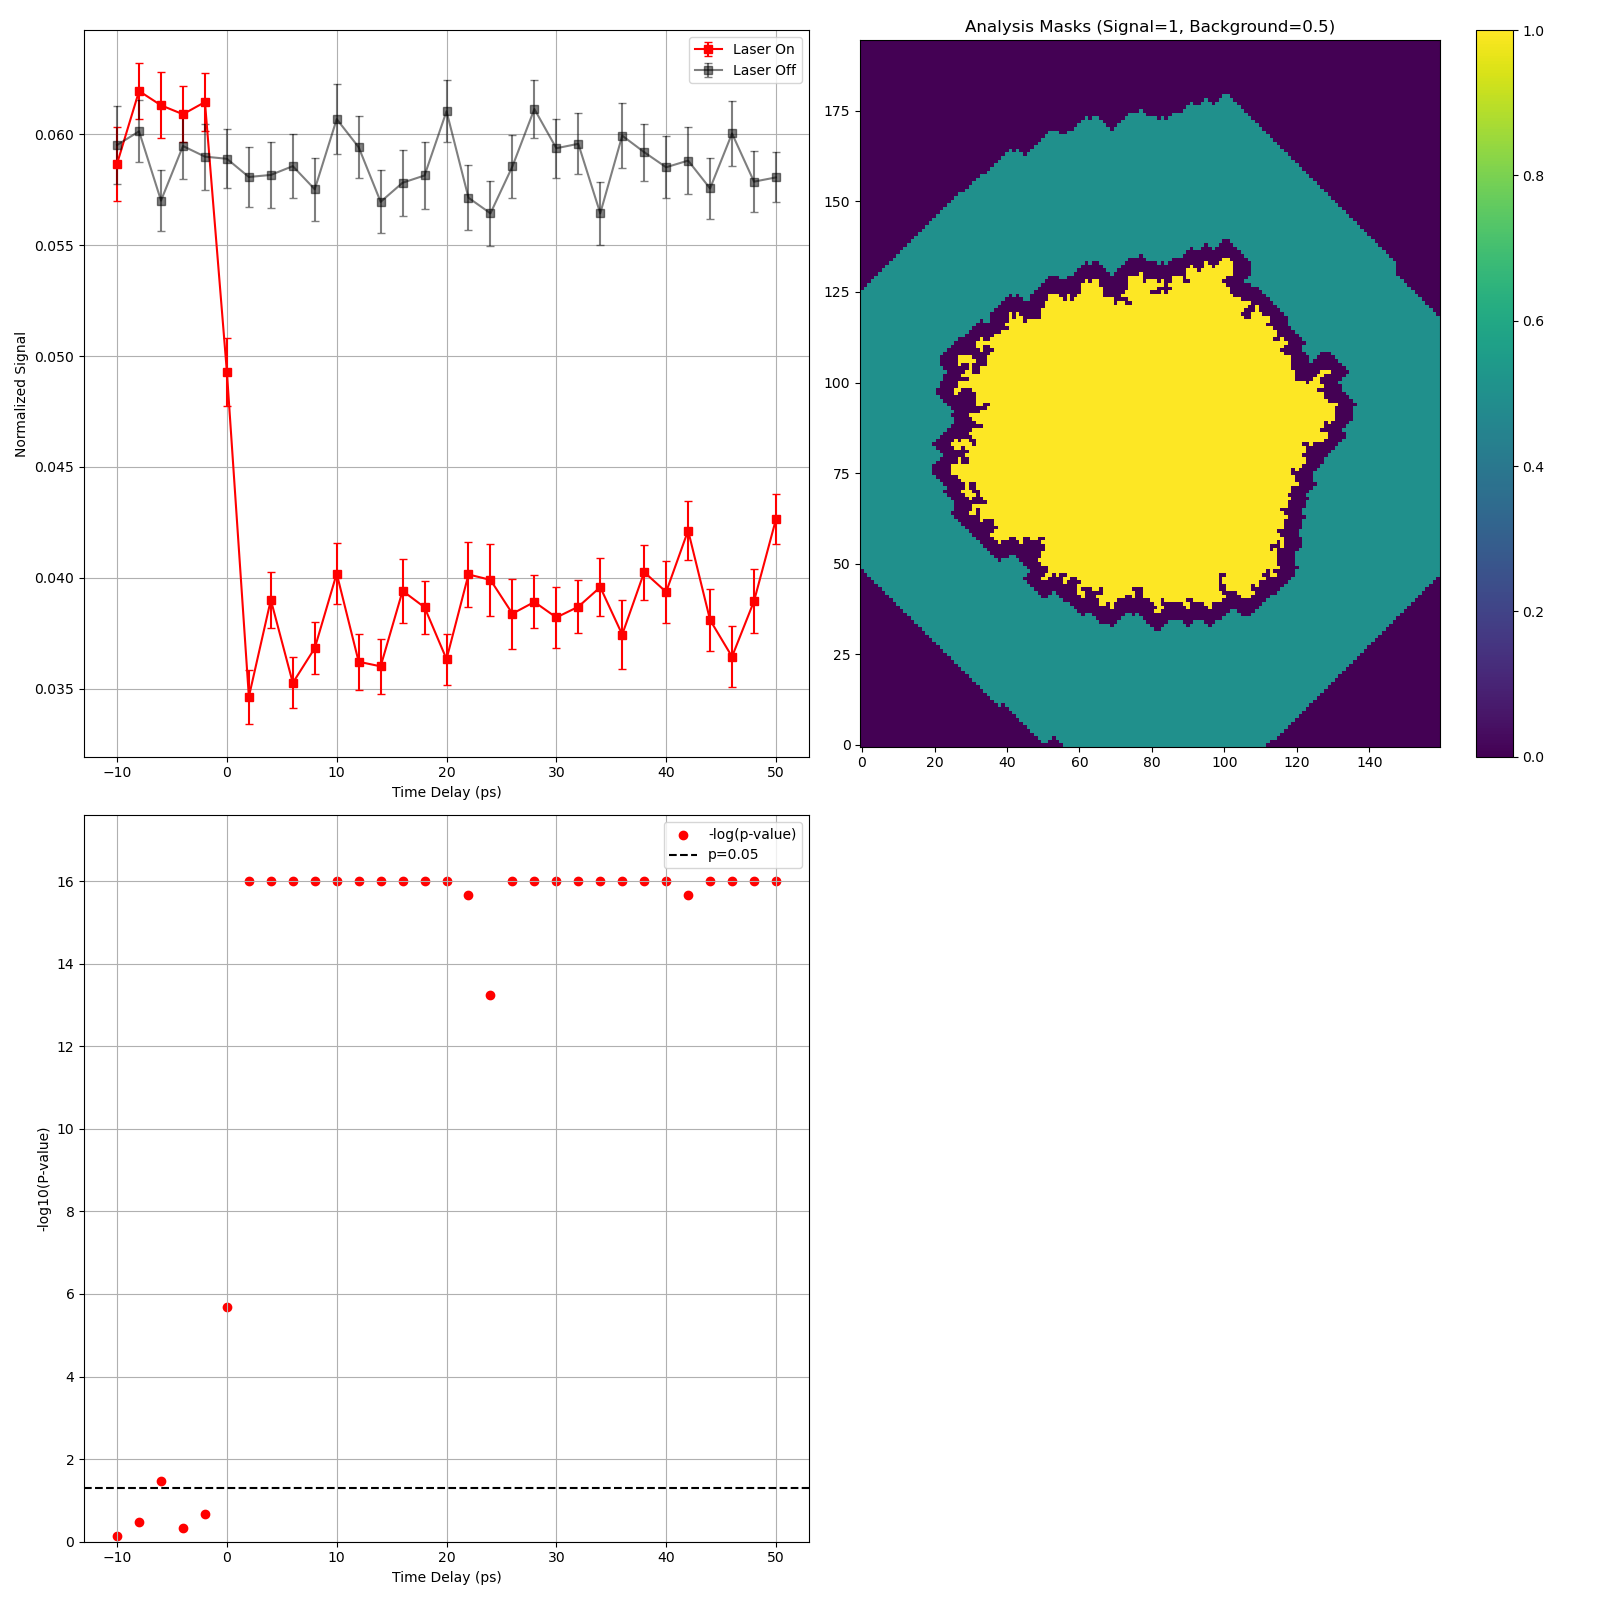
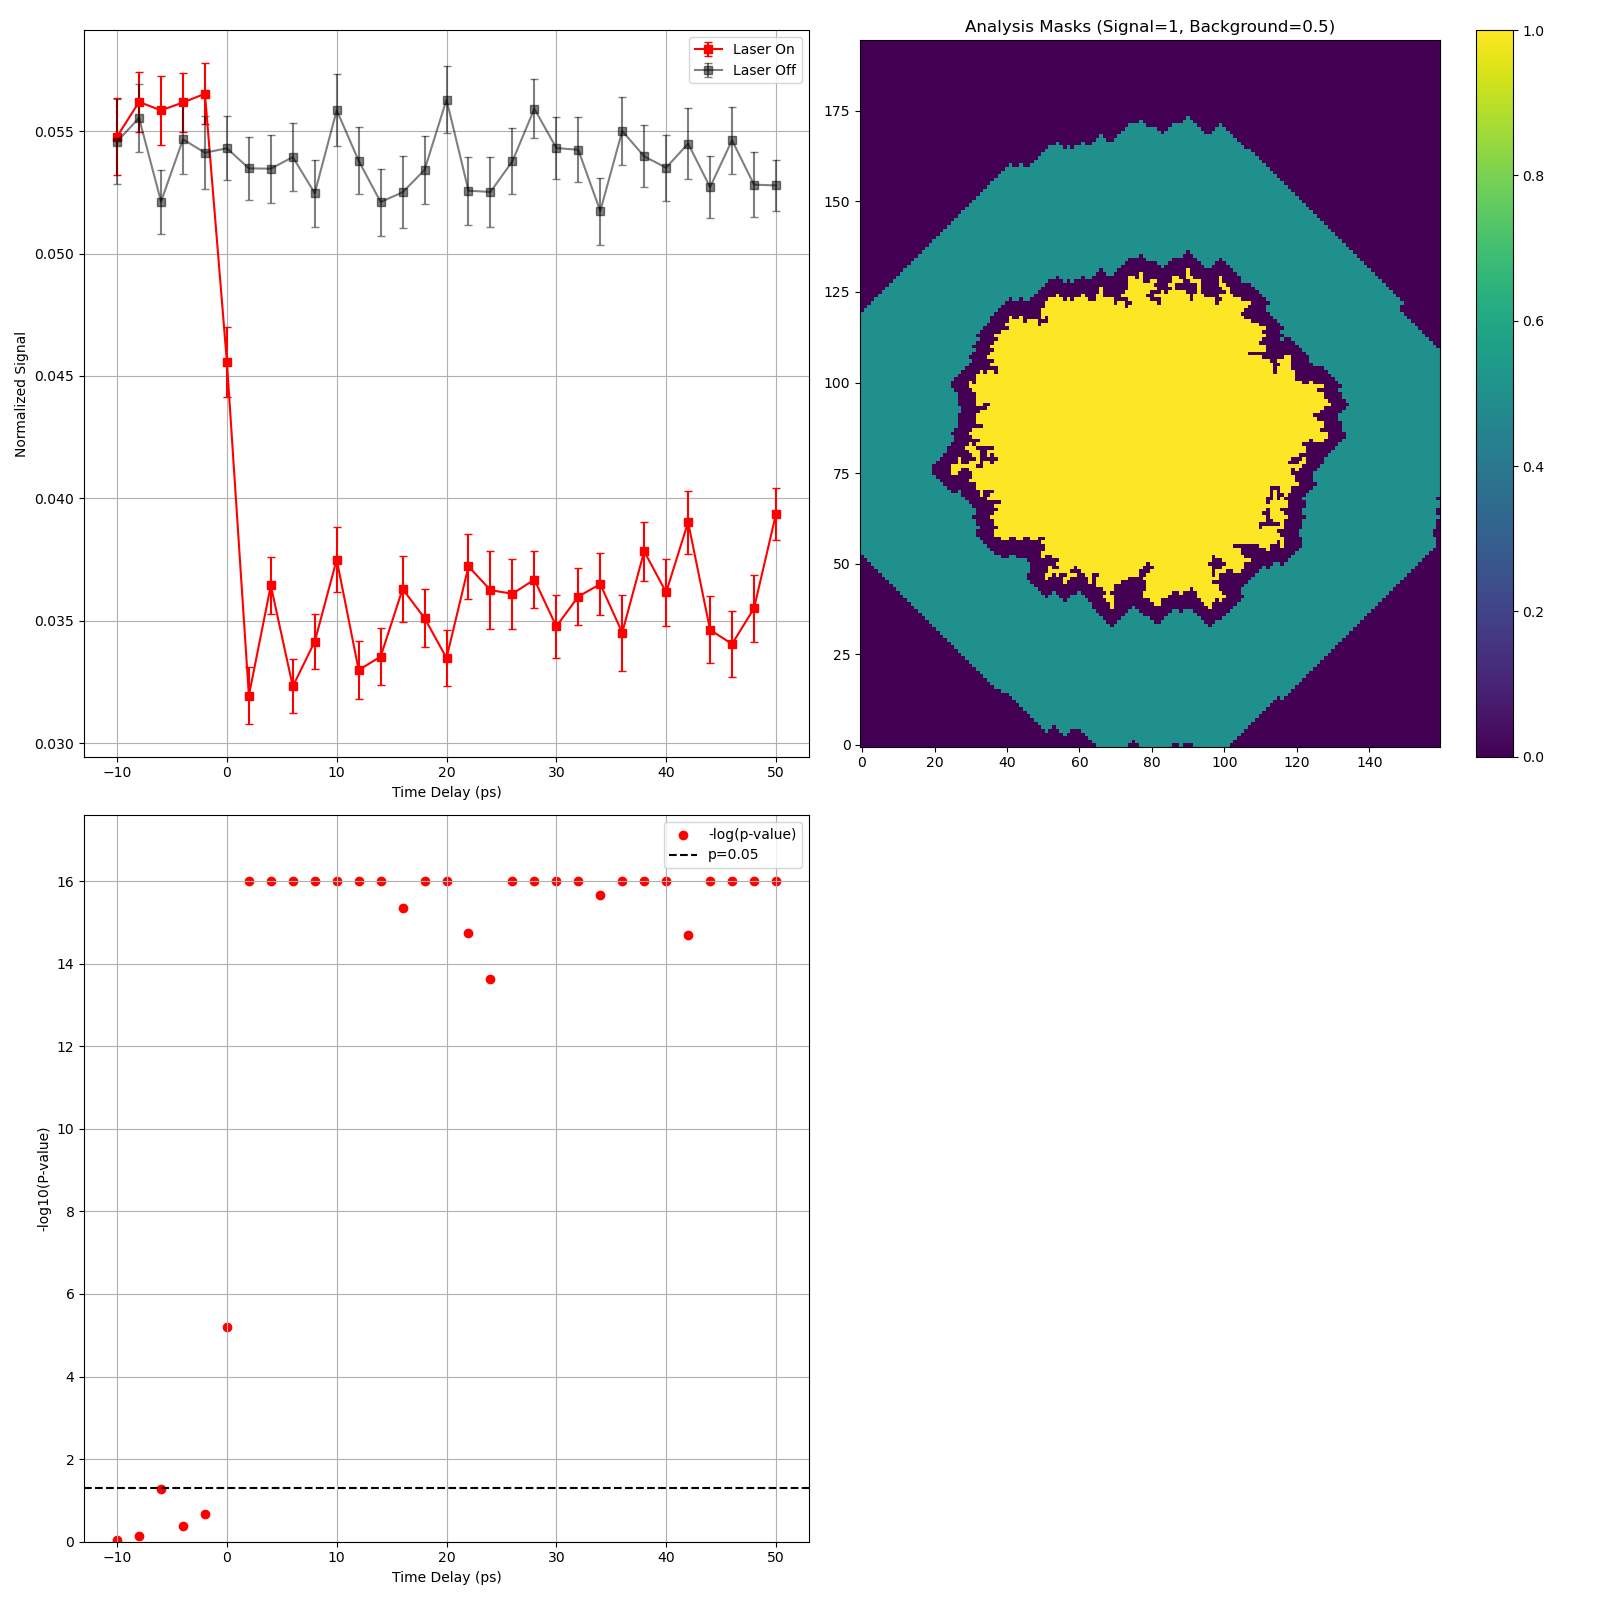
fix p threshold polarity

diff --git a/btx/processing/tasks/build_pump_probe_masks.py b/btx/processing/tasks/build_pump_probe_masks.py
@@ -120,7 +120,7 @@ class BuildPumpProbeMasks:
         Returns:
             Tuple of (labeled array, ROI cluster mask)
         """
-        porous_pixels = p_values > threshold
+        porous_pixels = p_values < threshold
         labeled_array, _ = ndimage.label(porous_pixels)
         seed_x = (roi_x_start + roi_x_end) // 2
         seed_y = (roi_y_start + roi_y_end) // 2
